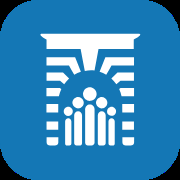
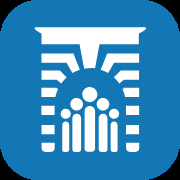
feat: Rekrutacja z dwiema edycjami do komisji, zarządzenia ze złym linkiem widoczne, większy sygnet w faviconie
- Rekrutacja: osobny proces do komisji (formularz, rozmowa, case study),
  karty edycji jesiennej i wiosennej z miejscem na zdjęcia rekruterów,
  uproszczony proces przeniesiony do zespołów projektowych, bez
  „funkcji w organach”
- Zarządzenia: zły link (np. sama nazwa pliku) usuwa tylko przycisk
  pliku, a nie całe zarządzenie
- favicon: sygnet 58% zamiast 52%

Changed region(s): [[0.1944, 0.1389, 0.8333, 0.8611], [0.5556, 0.3333, 0.6111, 0.4167], [0.4722, 0.4722, 0.5278, 0.5]]

diff --git a/src/components/pages/RekrutacjaContent.tsx b/src/components/pages/RekrutacjaContent.tsx
@@ -6,7 +6,7 @@ import { useLocale, useTranslations } from "next-intl";
 import { ArrowRight, EnvelopeSimple, FilePdf, FolderOpen } from "@phosphor-icons/react";
 import { Link } from "@/i18n/navigation";
 import { ScrollReveal } from "../ScrollReveal";
-import { APPLY_EMAIL, openRecruitments, recruitmentDrive, recruitmentGeneralForm, type Recruitment } from "@/lib/recruitment";
+import { APPLY_EMAIL, openRecruitments, recruiterPhotos, recruitmentDrive, recruitmentGeneralForm, type Recruitment } from "@/lib/recruitment";
 import { todayInWarsaw } from "@/lib/russ";
 import { projectPhotos, projectPhotosAreAuthentic } from "@/lib/photos";
 import { board, viceChairs } from "@/lib/people";
@@ -67,28 +67,6 @@ export function RekrutacjaContent({ items, serverToday }: { items: Recruitment[]
 
   return (
     <>
-      {/* ── Jak aplikować: przewodnik z pytaniami i odpowiedzi mailem ── */}
-      <section className="section-padding pb-0" aria-labelledby="rek-jak-heading">
-        <div className="mx-auto max-w-[1200px]">
-          <h2 id="rek-jak-heading" className={styles.h2}>
-            {t("howHeading")}
-          </h2>
-          <ol className={styles.steps}>
-            {(["guide", "answer", "send"] as const).map((step, i) => (
-              <li key={step} className={styles.step}>
-                <span className={styles.stepNo} aria-hidden="true">
-                  {i + 1}
-                </span>
-                <p className="font-semibold text-ink-primary">{t(`how.${step}.title`)}</p>
-                <p className="mt-1 text-[0.9375rem] leading-[1.6] text-ink-secondary">
-                  {t(`how.${step}.desc`, { email: APPLY_EMAIL })}
-                </p>
-              </li>
-            ))}
-          </ol>
-        </div>
-      </section>
-
       {/* ── Samorząd ── */}
       <section id="samorzad" className="section-padding scroll-mt-24" aria-labelledby="rek-samorzad-heading">
         <div className="mx-auto max-w-[1200px]">
@@ -111,6 +89,20 @@ export function RekrutacjaContent({ items, serverToday }: { items: Recruitment[]
               ) : null}
             </div>
           </ScrollReveal>
+
+          {/* Rekrutacja do komisji: dwie edycje w roku, trzy etapy (decyzja Samorządu, 2.11.2026). */}
+          <h3 className={styles.h3}>{t("councilProcessHeading")}</h3>
+          <ol className={styles.steps}>
+            {(["form", "interview", "case"] as const).map((step, i) => (
+              <li key={step} className={styles.step}>
+                <span className={styles.stepNo} aria-hidden="true">
+                  {i + 1}
+                </span>
+                <p className="font-semibold text-ink-primary">{t(`councilProcess.${step}.title`)}</p>
+                <p className="mt-1 text-[0.9375rem] leading-[1.6] text-ink-secondary">{t(`councilProcess.${step}.desc`)}</p>
+              </li>
+            ))}
+          </ol>
 
           {council.length > 0 ? (
             <ul className={styles.councilList}>
@@ -158,6 +150,35 @@ export function RekrutacjaContent({ items, serverToday }: { items: Recruitment[]
         </div>
       </section>
 
+      {/* ── Dwie edycje rekrutacji do komisji: zdjęcia rekruterów + krótki opis (bez imion). ── */}
+      <section className="section-padding pt-0" aria-labelledby="rek-edycje-heading">
+        <div className="mx-auto max-w-[1200px]">
+          <h2 id="rek-edycje-heading" className={styles.h2}>
+            {t("editionsHeading")}
+          </h2>
+          <p className={styles.lead}>{t("editionsLead")}</p>
+          <div className={styles.editions}>
+            {(["autumn", "spring"] as const).map((edition) => (
+              <article key={edition} className={styles.edition}>
+                {recruiterPhotos[edition].length > 0 ? (
+                  <div className={styles.editionPhotos} data-count={Math.min(recruiterPhotos[edition].length, 3)}>
+                    {recruiterPhotos[edition].slice(0, 3).map((src) => (
+                      <span key={src} className={styles.editionPhoto}>
+                        <Image src={src} alt={t("editionPhotoAlt", { edition: t(`editions.${edition}.title`) })} fill sizes="(min-width: 768px) 560px, 100vw" quality={90} className="object-cover" />
+                      </span>
+                    ))}
+                  </div>
+                ) : null}
+                <div className={styles.editionBody}>
+                  <h3 className="font-display text-[1.375rem] font-semibold text-ink-primary">{t(`editions.${edition}.title`)}</h3>
+                  <p className="mt-2 text-[0.9375rem] leading-[1.65] text-ink-secondary">{t(`editions.${edition}.desc`)}</p>
+                </div>
+              </article>
+            ))}
+          </div>
+        </div>
+      </section>
+
       {/* ── Zespoły projektów ── */}
       <section id="projekty" className={`${styles.projectsSection} scroll-mt-24`} aria-labelledby="rek-projekty-heading">
         <div className="mx-auto max-w-[1200px] px-6 py-16 lg:py-24">
@@ -167,6 +188,20 @@ export function RekrutacjaContent({ items, serverToday }: { items: Recruitment[]
             </h2>
             <p className={styles.leadInverse}>{t("projectsLead")}</p>
           </ScrollReveal>
+
+          {/* Uproszczony proces dotyczy zespołów projektowych: przewodnik → odpowiedzi → mail. */}
+          <h3 className={styles.h3Inverse}>{t("howHeading")}</h3>
+          <ol className={styles.steps}>
+            {(["guide", "answer", "send"] as const).map((step, i) => (
+              <li key={step} className={`${styles.step} ${styles.stepInverse}`}>
+                <span className={styles.stepNo} aria-hidden="true">
+                  {i + 1}
+                </span>
+                <p className="font-semibold text-white">{t(`how.${step}.title`)}</p>
+                <p className="mt-1 text-[0.9375rem] leading-[1.6] text-white/72">{t(`how.${step}.desc`, { email: APPLY_EMAIL })}</p>
+              </li>
+            ))}
+          </ol>
 
           {projects.length > 0 ? (
             <ul className={styles.projectGrid}>

diff --git a/src/lib/tresci/parse-zarzadzenia.ts b/src/lib/tresci/parse-zarzadzenia.ts
@@ -32,15 +32,18 @@ export function parseZarzadzenia(csv: string): { items: Zarzadzenie[]; errors: R
       fail(`zła data (${v.data || "puste"}) - wpisz datę jako 2026-10-01 albo 01.10.2026`);
       continue;
     }
-    const href = v.link || undefined;
-    if (href && !/^https?:\/\//.test(href)) {
-      fail(`„link” musi być pełnym adresem (https://…), a jest „${href}”`);
-      continue;
+    // Zły link nie ukrywa zarządzenia: pokazujemy je bez przycisku pliku,
+    // a Strefa działacza mówi, co poprawić (np. sama nazwa pliku zamiast adresu).
+    const okUrl = (u: string) => /^https?:\/\//.test(u) && !u.includes("…");
+    let href = v.link || undefined;
+    if (href && !okUrl(href)) {
+      fail(`„link” musi być pełnym adresem (https://…), a jest „${href}” - zarządzenie pokazujemy bez pliku`);
+      href = undefined;
     }
-    const hrefEn = v.linken || undefined;
-    if (hrefEn && !/^https?:\/\//.test(hrefEn)) {
-      fail(`„link EN” musi być pełnym adresem (https://…), a jest „${hrefEn}”`);
-      continue;
+    let hrefEn = v.linken || undefined;
+    if (hrefEn && !okUrl(hrefEn)) {
+      fail(`„link EN” musi być pełnym adresem (https://…), a jest „${hrefEn}” - pomijamy wersję angielską`);
+      hrefEn = undefined;
     }
     items.push({ number, date, title: { pl: title, en: v.tytulen || title }, ...(href ? { href } : {}), ...(hrefEn ? { hrefEn } : {}) });
   }

diff --git a/src/components/pages/Rekrutacja.module.css b/src/components/pages/Rekrutacja.module.css
@@ -312,3 +312,77 @@
   }
 }
 
+
+/* Podtytuły sekcji (proces, edycje rekrutacji). */
+.h3,
+.h3Inverse {
+  margin: 2.5rem 0 0;
+  font-family: var(--font-display), system-ui, sans-serif;
+  font-size: 1.25rem;
+  font-weight: 600;
+  letter-spacing: -0.01em;
+}
+
+.h3 {
+  color: var(--ink-primary);
+}
+
+.h3Inverse {
+  color: #fff;
+}
+
+.stepInverse {
+  border-color: rgb(255 255 255 / 0.16);
+  background: rgb(255 255 255 / 0.05);
+}
+
+/* Dwie edycje rekrutacji: karta ze zdjęciami rekruterów i opisem. */
+.editions {
+  display: grid;
+  gap: 20px;
+  margin-top: 2rem;
+}
+
+@media (min-width: 768px) {
+  .editions {
+    grid-template-columns: repeat(2, minmax(0, 1fr));
+  }
+}
+
+.edition {
+  overflow: hidden;
+  border: 1px solid var(--border-subtle);
+  border-radius: 16px;
+  background: var(--bg-surface);
+}
+
+.editionPhotos {
+  display: grid;
+  gap: 4px;
+  /* Ta sama wysokość w obu kartach, niezależnie od liczby zdjęć. */
+  height: clamp(220px, 24vw, 300px);
+}
+
+.editionPhotos[data-count="2"] {
+  grid-template-columns: repeat(2, minmax(0, 1fr));
+}
+
+.editionPhotos[data-count="3"] {
+  grid-template-columns: 2fr 1fr;
+  grid-template-rows: repeat(2, minmax(0, 1fr));
+}
+
+.editionPhotos[data-count="3"] .editionPhoto:first-child {
+  grid-row: span 2;
+}
+
+.editionPhoto {
+  position: relative;
+  display: block;
+  min-height: 0;
+  background: var(--bg-elevated);
+}
+
+.editionBody {
+  padding: 1.5rem;
+}

diff --git a/src/lib/recruitment.ts b/src/lib/recruitment.ts
@@ -1,5 +1,5 @@
 /**
- * Rekrutacje: do Samorządu (komisje, funkcje) i do zespołów projektów.
+ * Rekrutacje: do komisji Samorządu i do zespołów projektów.
  *
  * Właściwe źródło to zakładka „Rekrutacje” w arkuszu „Treści strony”
  * (src/lib/tresci, opis kolumn w docs/JAK-EDYTOWAC.md). Lista poniżej jest
@@ -33,6 +33,17 @@ export const recruitmentDrive = "https://drive.google.com/drive/folders/1Zrt8yen
 
 // Ogólny formularz „zostaw zgłoszenie", gdy brak otwartych naborów (opcjonalnie).
 export const recruitmentGeneralForm = "";
+
+/**
+ * Zdjęcia rekruterów z dwóch edycji rekrutacji do komisji (jesiennej
+ * i wiosennej; decyzja Samorządu 2.11.2026). Bez imion i nazwisk - same
+ * zdjęcia i opis edycji. Pliki: public/photos/rekrutacja/ (np. jesien.webp),
+ * kilka zdjęć na edycję jest w porządku. Pusta lista = karta bez zdjęć.
+ */
+export const recruiterPhotos: { autumn: string[]; spring: string[] } = {
+  autumn: [],
+  spring: [],
+};
 
 /** Nabory otwarte w dniu `today` (RRRR-MM-DD): bez terminu albo z terminem dziś lub później. */
 export function openRecruitments(list: Recruitment[], today: string): Recruitment[] {

diff --git a/src/lib/tresci/parse-zarzadzenia.test.ts b/src/lib/tresci/parse-zarzadzenia.test.ts
@@ -17,7 +17,7 @@ describe("parseZarzadzenia", () => {
     expect(items[1].hrefEn).toBe("https://drive.google.com/a-en");
   });
 
-  it("pomija wiersz bez numeru, z złą datą albo linkiem i mówi, co poprawić", () => {
+  it("pomija wiersz bez numeru albo z złą datą, zły link tylko usuwa plik, i mówi, co poprawić", () => {
     const { items, errors } = parseZarzadzenia(
       HEAD +
         ",01.10.2026,Bez numeru,,https://x.pl\n" +
@@ -27,8 +27,8 @@ describe("parseZarzadzenia", () => {
     );
     expect(errors.map((e) => e.line)).toEqual([2, 3, 4]);
     expect(errors[2].message).toContain("https://");
-    // Brak linku jest dozwolony - zarządzenie widać w rejestrze bez pliku.
-    expect(items.map((z) => z.number)).toEqual(["5/2026/2027"]);
-    expect(items[0].href).toBeUndefined();
+    // Brak albo zły link nie ukrywa zarządzenia - widać je w rejestrze bez pliku.
+    expect(items.map((z) => z.number).sort()).toEqual(["4/2026/2027", "5/2026/2027"]);
+    expect(items.every((z) => z.href === undefined)).toBe(true);
   });
 });
